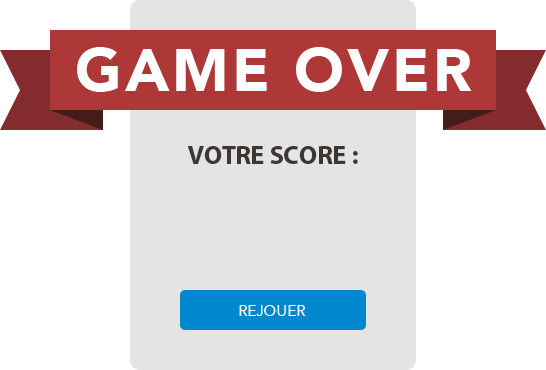
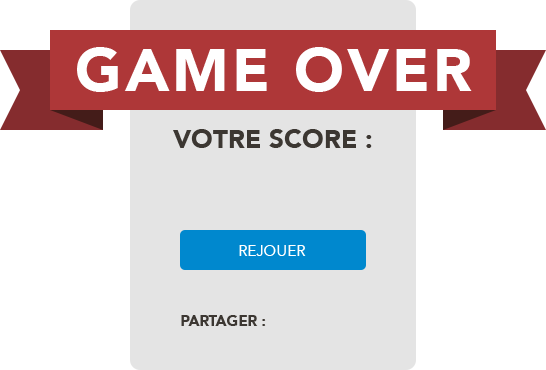
social share

Changed region(s): [[0.3114, 0.773, 0.685, 0.8919], [0.3114, 0.6243, 0.685, 0.7432], [0.3114, 0.327, 0.685, 0.4459]]

diff --git a/html/index.html b/html/index.html
@@ -7,12 +7,83 @@
 		canvas {
 			background-color: #fff;
 		}
+		.share {
+			position: absolute;
+			left: 591px;
+			top: 393px;
+			z-index: -19999999;
+			opacity: 0;
+		}
+		.share.active {
+			opacity: 1;
+			z-index: 100;
+		}
+		.share__item {
+			width:40px;
+			height: 40px;
+			position:relative;
+			/*background: red;*/
+			float: left;
+			margin:5px;
+			background-position: center;
+			background-repeat: no-repeat;
+		}
+		.fb {
+			background-image: url(img/FB.png);
+
+		}
+		.tw {
+			background-image: url(img/TW.png);
+		}
+		#fb, #tw {
+			float: left;
+		}
 		</style>
+		<!-- You can use Open Graph tags to customize link previews.
+		Learn more: https://developers.facebook.com/docs/sharing/webmasters -->
+	  <meta property="og:url"           content="http://sncf.digital.com" />
+	  <meta property="og:type"          content="website" />
+	  <meta property="og:title"         content="Ed Gare - Le jeu" />
+	  <meta property="og:description"   content="Ed Gare - Le jeu" />
+	  <meta property="og:image"         content="img/share/Jeu-Edgar.png" />
 	</head>
 	<body>
-		<!-- <script src="phaser.min.js"></script> -->
+		<div class="share">
+			<div id="fb" data-url="http://sncf.digital.com" data-text="Ed Gare - Le jeu" data-title="share"></div>
+			<div id="tw" data-url="http://sncf.digital.com" data-text="Ed Gare - Le jeu" data-title="share"></div>
+		</div>
+		<script src="vendor/jquery/jquery-3.2.1.min.js"></script>
+		<script src="vendor/sharrre/jquery.sharrre.min.js"></script>
 		<script src="phaser2.8.0.min.js"></script>
 		<script src="main.js"></script>
 		<script src='debugPhaser.js'></script>
+		<script type="text/javascript">
+		$('#fb').sharrre({
+			share: {
+				facebook: true,
+			},
+			template:'<div class="share__item fb" ></div>',
+			buttons:false,
+			count:false,
+			url: 'http://sncf.digital.com',
+			enableHover: false,
+			click: function (api, options) {
+				api.openPopup('facebook');
+			}
+		});
+		$('#tw').sharrre({
+			share: {
+				twitter: true,
+			},
+			template:'<div class="share__item tw" ></div>',
+			buttons:false,
+			count:false,
+			url: 'http://sncf.digital.com',
+			enableHover: false,
+			click: function (api, options) {
+				api.openPopup('twitter');
+			}
+		});
+		</script>
 	</body>
 </html>

diff --git a/html/main.js b/html/main.js
@@ -139,7 +139,8 @@ var sncf = {
 
         // Play background audio
         this.bgMusic.play();
-        this.bgMusic.volume = 0.02;
+        this.bgMusic.volume = 0.2;
+		this.gameOverSound.volume = 0.2;
 
         var scoreCountStyle = { font: "bold 82px Arial", fill: "#33", boundsAlignH: "right", boundsAlignV: "right" };
         this.scoreCountLabel = game.add.text(1000, 25, "00000", scoreCountStyle);
@@ -654,7 +655,7 @@ var sncf = {
             gameOverBanner.height = 370 * 1.4;
 
             var scoreLabelStyle = { font: "bold 95px Arial", fill: "#ae3738", boundsAlignH: "center", boundsAlignV: "middle" };
-            var scoreLabel = game.add.text(__this.character.body.x - 40, 500, score, scoreLabelStyle);
+            var scoreLabel = game.add.text(__this.character.body.x - 30, 463, score, scoreLabelStyle);
             scoreLabel.anchor.setTo(0.25,0);
             scoreLabel.fixedToCamera = true;
 
@@ -665,7 +666,7 @@ var sncf = {
 			sncf.bgMusic.pause();
 			sncf.bgMusic.currentTime = 0;
             __this.game.input.onDown.add(__this.restartGame, self);
-
+			$(".share").addClass('active');
             __this.gameOverSound.play();
         }, timeoutDuration);
     },
@@ -675,6 +676,7 @@ var sncf = {
         isGamePaused = false;
         game.state.start('sncf');
 		pointPositions = [];
+		$(".share").removeClass('active');
     }
 };
 
